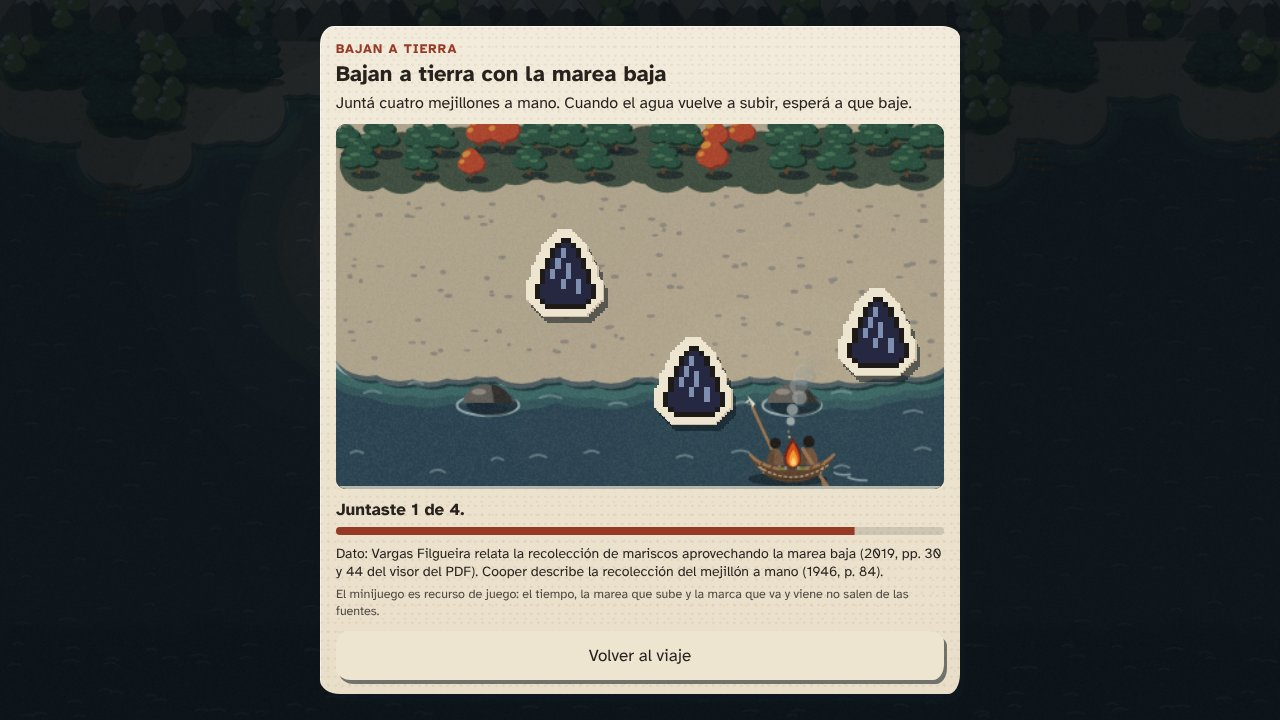
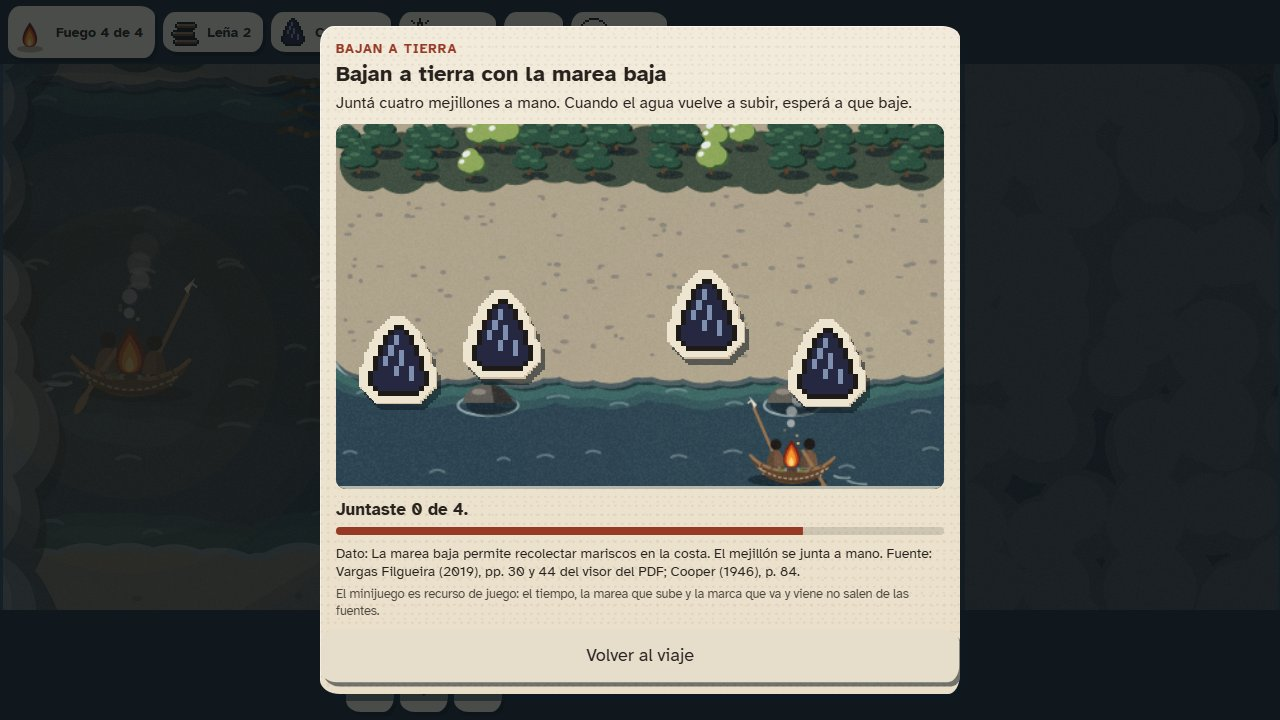
Video: el cuadro del minijuego con el dato y la fuente actuales
04b-minijuego.jpg (de D) mostraba el texto anterior del minijuego de los
mejillones. Se saca de nuevo del juego, con el OK de Facu.

diff --git a/equipo/memory.md b/equipo/memory.md
@@ -7,7 +7,7 @@
 - **Pirita como motivo del viaje (18/11):** Dani aprobó el pedido de Mati del PR 39. El destino `pirita` pasa a `borrador` y puede salir junto con la ballena, con su fuente existente: Cooper (1946), «The Yahgan», pp. 94–95. La carta de pirita conserva `revisado`; el destino de corteza sigue en `propuesta`.
 - **Cartas originales revisadas (18/11):** Dani aprobó las nueve cartas originales, que pasan a `revisado`. Se prioriza completar la propuesta inicial. Las ocho nuevas siguen como borradores fuera del juego, pendientes de acuerdo con Mati y Facu. La consulta comunitaria sigue abierta. El resumen de las propuestas está en `equipo/revision-victor-y-cartas-nuevas.md`.
 - **Fecha de la última actualización:** 18/11/2026 (día de la entrega).
-- **Video de la entrega (18/11, B, en el storyboard de D):** con el OK de Facu, las voces de los cuadros 4 y 6 suman el minijuego («si sale mal, se pierde el turno»), la llegada al destino y la crónica del final; se actualizaron `equipo/video/README.md`, `equipo/comunicacion.md` y `subtitulos.srt`. Los clips se volvieron a grabar con lo último de `main` (canoa que se mece, crónica, «Volver al menú» y la etiqueta «Yagán» del mapa). Las voces las graban Facu y otras personas del equipo; se edita en Shotcut.
+- **Video de la entrega (18/11, B, en el storyboard de D):** con el OK de Facu, las voces de los cuadros 4 y 6 suman el minijuego («si sale mal, se pierde el turno»), la llegada al destino y la crónica del final; se actualizaron `equipo/video/README.md`, `equipo/comunicacion.md` y `subtitulos.srt`. Los clips se volvieron a grabar con lo último de `main` (canoa que se mece, crónica, «Volver al menú» y la etiqueta «Yagán» del mapa). Las voces las graban Facu y Dani; se edita en Shotcut. También se rehicieron `08-consulta.jpg` y `09-cierre.jpg` (eran de la primera versión del pitch, con huecos; ahora salen de la presentación en 1920 × 1080) y, con el OK de Facu, `04b-minijuego.jpg` de D, que mostraba un dato de los mejillones que el juego ya no usa.
 - **Pitch: rigor y nombres (18/11, B, en la presentación de D):** en la diapositiva 4 se sacó la ruta `docs/05-rigor-historico.md`; ahora dice que un saber sin fuente no entra al juego y queda pendiente hasta verificarlo. En la 9, «[nombres]» pasa a ser los cuatro nombres del README. Se regeneraron las imágenes y `pitch.pdf`. La carta de la diapositiva 4 es «Amarrar en el cachiyuyo» y se lee de `datos/saberes.js`: Dani la está corrigiendo, y cuando cambie hay que volver a exportar (`node presentacion/exportar.cjs`).
 - **«Empezar otro viaje» va directo al viaje, y las transiciones se ven (19/11, B):** al confirmar (ahora dice «¿Terminar este viaje? Tocá de nuevo»), el viaje termina, lo aprendido pasa a la generación siguiente y se ve el paso del fuego antes del viaje nuevo. Antes pasaba por «¿A quién acompañás?» con la misma familia una generación más adelante, y parecía que no había pasado nada. Además, las transiciones (el humo entre pantallas y el paso del fuego) **no se veían desde siempre**: las pantallas son `position: fixed` y el `body` medía 0 de alto, así que el lienzo de `arte/corteza/transiciones.js` medía 0. Por eso la generación siguiente parecía «tardar»: eran 5 s de animación invisible. Se arregló en `pantallas.css` (body del alto de la pantalla), sin tocar el archivo de D.
 - **Menú y botones (18/11, B):** «Empezar otro viaje» se confirma en el mismo botón (el primer toque pregunta y el segundo confirma), porque `confirm()` puede estar bloqueado y entonces el botón no hacía nada después de pausar. Al terminar el viaje hay un botón «Volver al menú». «Empezar la generación siguiente» dice «Preparando el viaje…» mientras dura la animación del paso del fuego: armar el viaje nuevo tarda unos 35 ms, y lo que demora son los 5,2 s de esa animación (`pasoDelFuego` en `arte/corteza/transiciones.js`, de D). Con el mouse, los botones se agrandan un 5 % y toman un tono apenas más oscuro de la paleta (papel `w`, fuego `y`); en el celular no, y con movimiento reducido solo cambia el color. En «¿A quién acompañás?», la tarjeta que se puede elegir (yagán) crece un 3 %, toma el papel `w` y un borde de fuego `Y`; la de «Próximamente» no cambia. En el mapa de esa pantalla, la etiqueta «Yagán» también elige (un botón transparente encima del rótulo). Con mouse, el territorio yagán se ilumina al pasar por la tarjeta o por la etiqueta; en el celular queda siempre destacado. No se cambió el dibujo de D (`arte/mapa/mapa.js`): se usa su opción `destacar`. Solo el rótulo es clickeable, no el territorio: el pie dice «aproximados» y no conviene remarcar límites.
